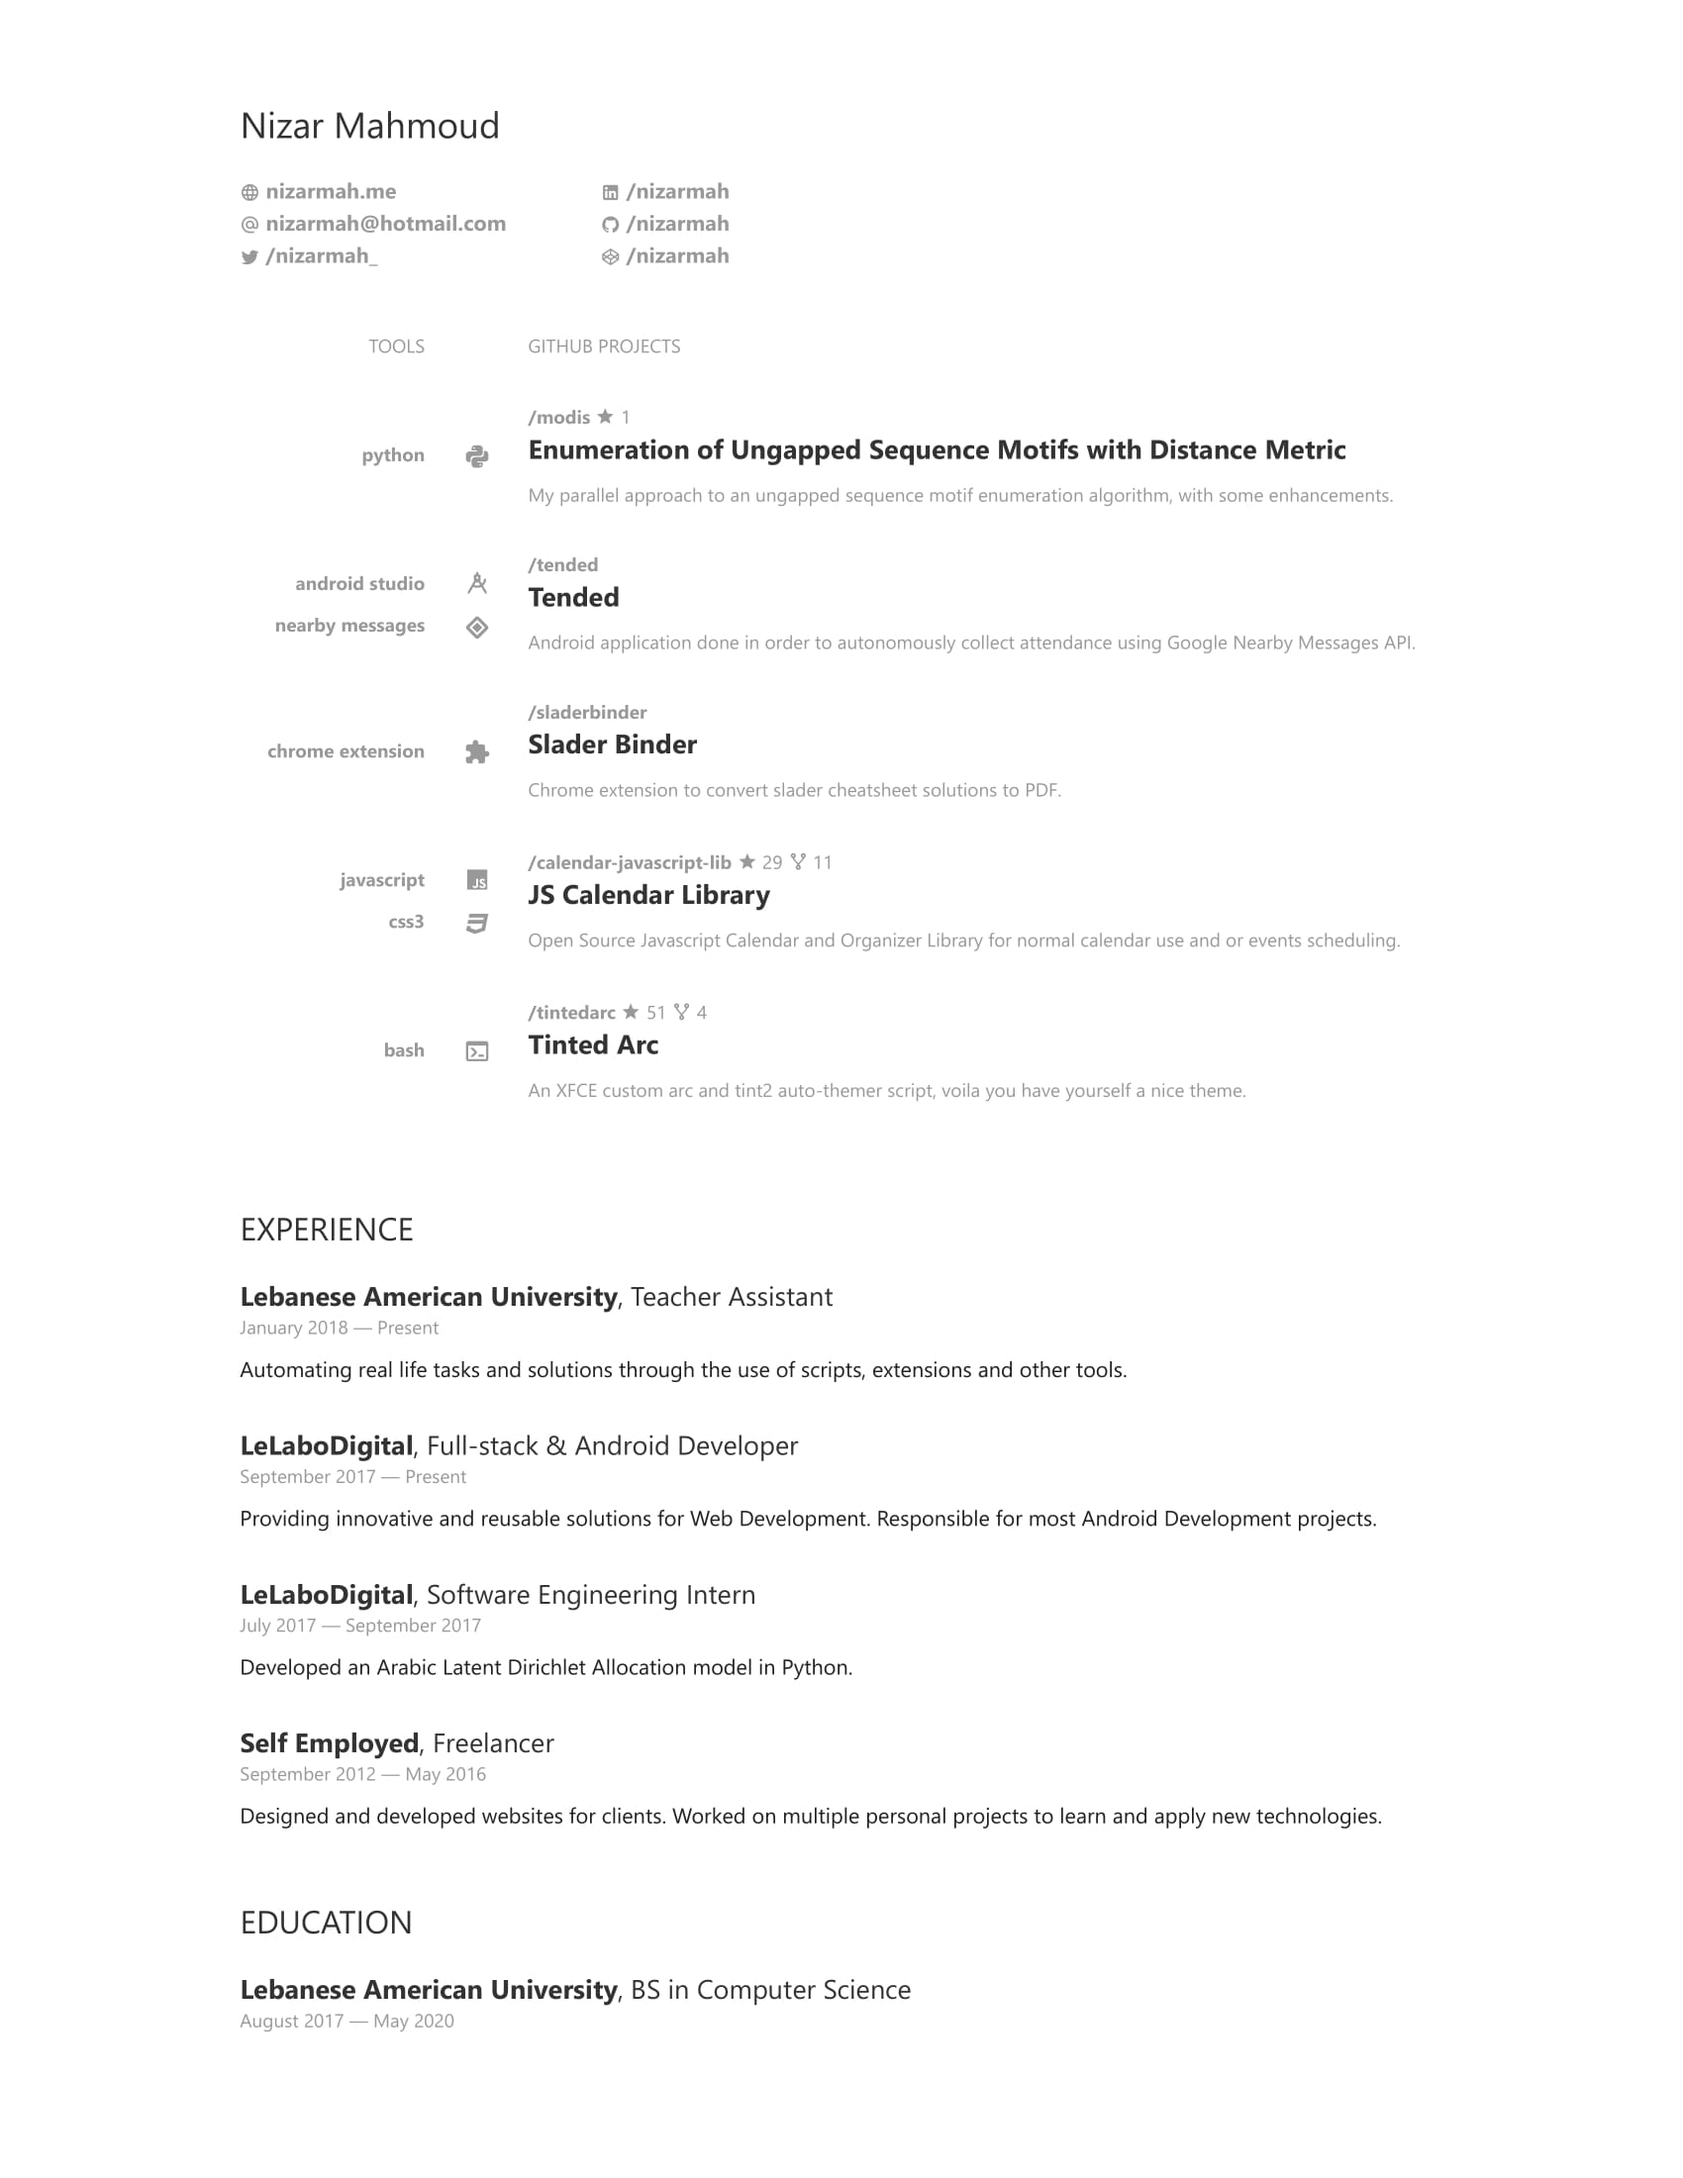
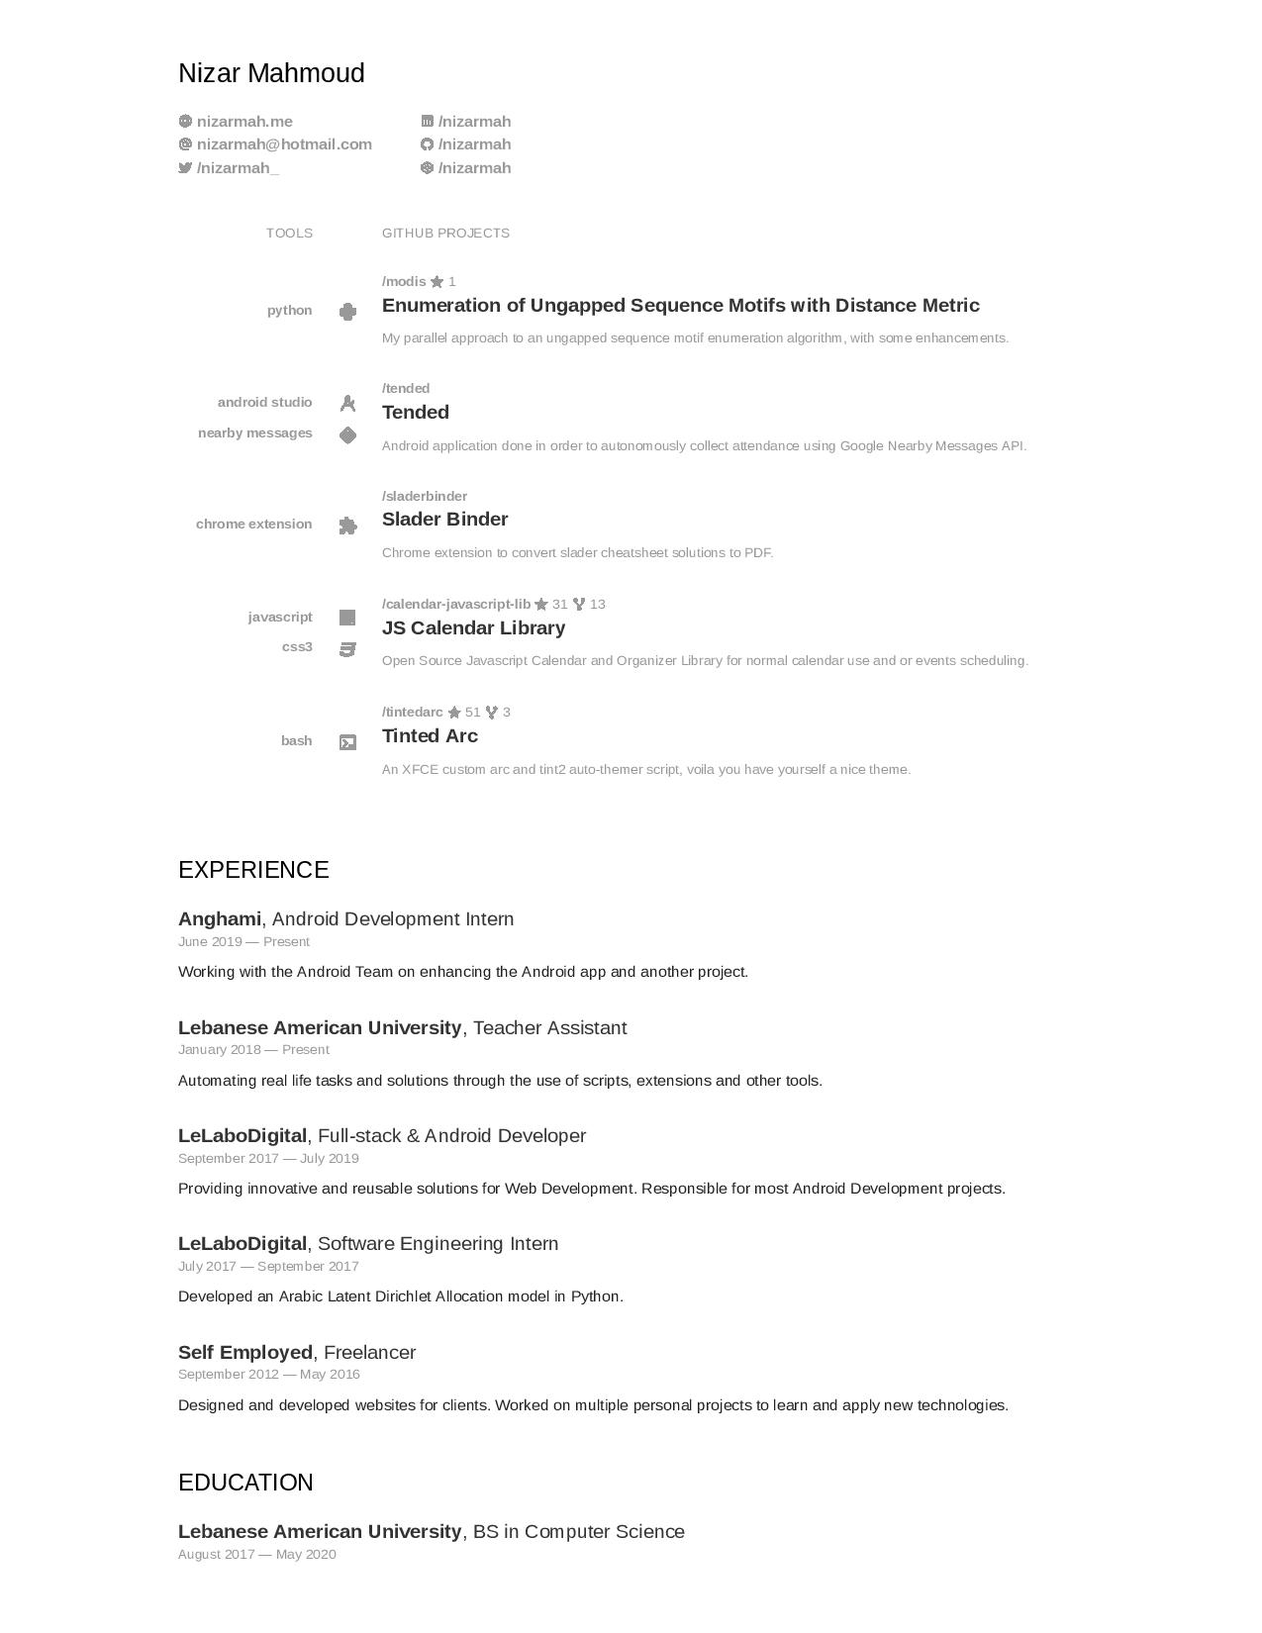
Anghami Internship: Updated Resume and Preview

diff --git a/index.html b/index.html
@@ -155,10 +155,10 @@
 										<span class="uk-text-middle"><a href="https://github.com/nizarmah/calendar-javascript-lib" class="uk-link-reset"><strong>/calendar-javascript-lib</strong></a></span>
 
 										<span><span class="uk-icon uk-icon-image uk-icon-github uk-text-middle" style="background-image: url(icon/star.svg) !important;"></span></span>
-										<span class="uk-text-middle">29</span>
+										<span class="uk-text-middle">31</span>
 
 										<span><span class="uk-icon uk-icon-image uk-icon-github uk-text-middle" style="background-image: url(icon/source-fork.svg) !important;"></span></span>
-										<span class="uk-text-middle">11</span>
+										<span class="uk-text-middle">13</span>
 									</div>
 									<span class="uk-h4 uk-text-emphasis"><strong>JS Calendar Library</strong></span>
 									<p class="uk-margin-small-top uk-text-small uk-text-muted">Open Source Javascript Calendar and Organizer Library for normal calendar use and or events scheduling.</p>
@@ -183,7 +183,7 @@
 										<span class="uk-text-middle">51</span>
 
 										<span><span class="uk-icon uk-icon-image uk-icon-github uk-text-middle" style="background-image: url(icon/source-fork.svg) !important;"></span></span>
-										<span class="uk-text-middle">4</span>
+										<span class="uk-text-middle">3</span>
 									</div>
 									<span class="uk-h4 uk-text-emphasis"><strong>Tinted Arc</strong></span>
 									<p class="uk-margin-small-top uk-text-small uk-text-muted">An XFCE custom arc and tint2 auto-themer script, voila you have yourself a nice theme.</p>
@@ -200,6 +200,15 @@
 					<ul class="uk-list">
 						<li>
 							<div>
+								<span class="uk-h4 uk-text-emphasis"><strong>Anghami</strong>, Android Development Intern</span>
+								<br />
+								<span class="uk-h6 uk-text-muted">June 2019 — Present</span>
+
+								<p class="uk-margin-small-top uk-text-secondary">Working with the Android Team on enhancing the Android app and another project.</p>
+							</div>
+						</li>
+						<li>
+							<div>
 								<span class="uk-h4 uk-text-emphasis"><strong>Lebanese American University</strong>, Teacher Assistant</span>
 								<br />
 								<span class="uk-h6 uk-text-muted">January 2018 — Present</span>
@@ -211,7 +220,7 @@
 							<div>
 								<span class="uk-h4 uk-text-emphasis"><strong>LeLaboDigital</strong>, Full-stack & Android Developer</span>
 								<br />
-								<span class="uk-h6 uk-text-muted">September 2017 — Present</span>
+								<span class="uk-h6 uk-text-muted">September 2017 — July 2019</span>
 
 								<p class="uk-margin-small-top uk-text-secondary">Providing innovative and reusable solutions for Web Development. Responsible for most Android Development projects.</p>
 							</div>
